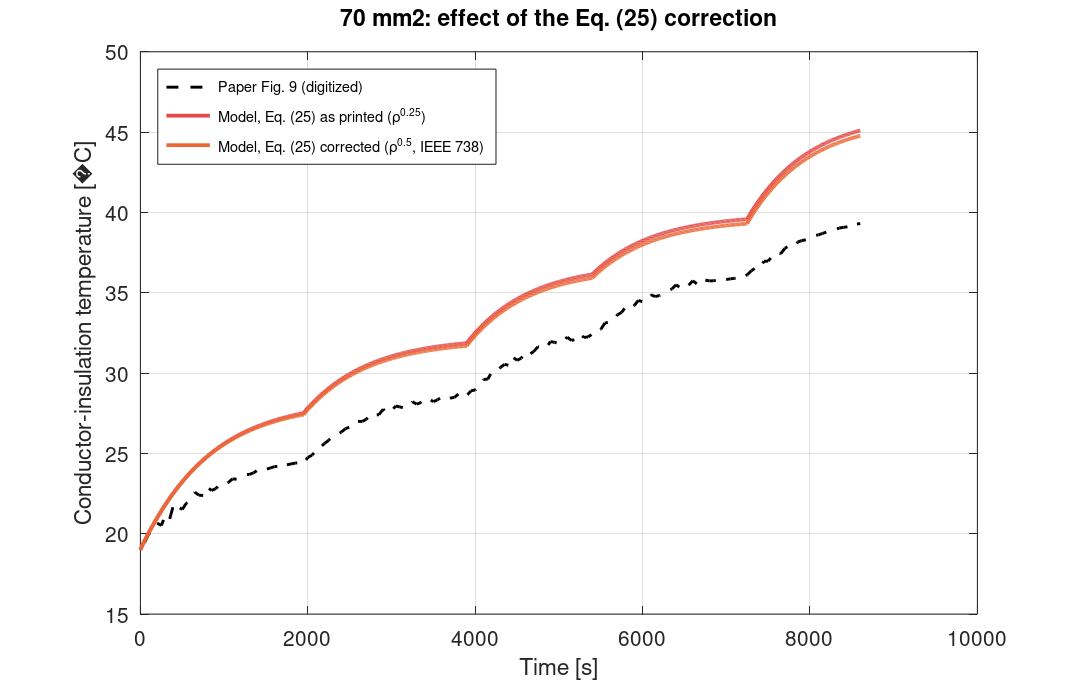
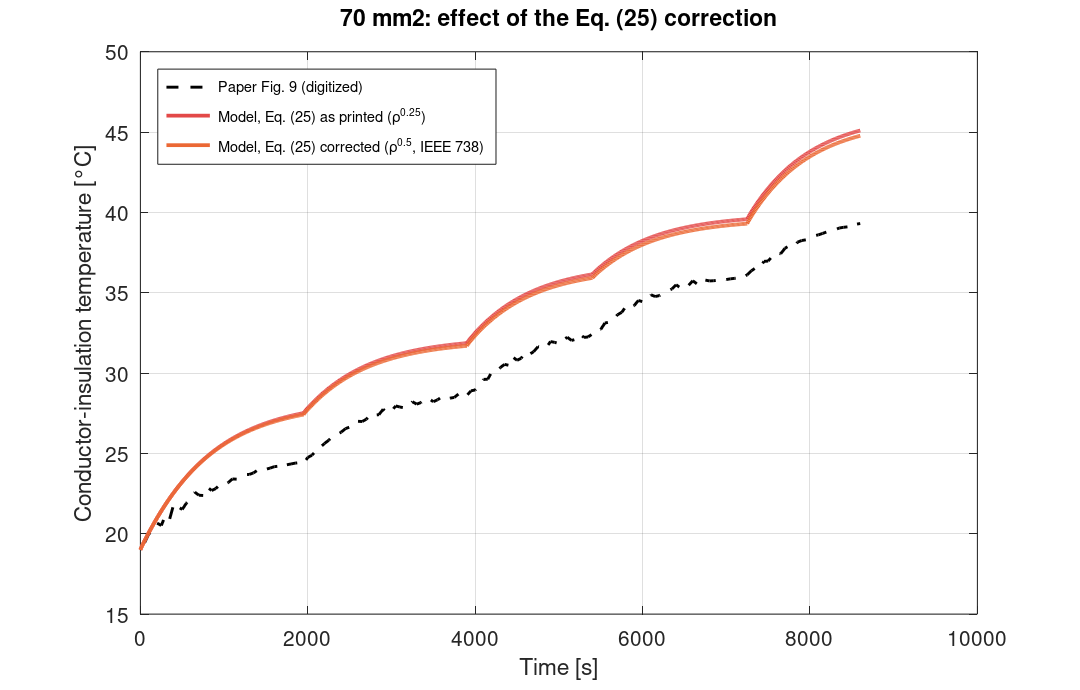
MATLAB: re-render paper-study figures with Octave Qt toolkit
Claude-Session: https://claude.ai/code/session_01NvewmNvfB2gMbfc86z3ryK

Changed region(s): [[0.0611, 0.1826, 0.0917, 0.7609]]

diff --git a/matlab/run_paper_study.m b/matlab/run_paper_study.m
@@ -105,7 +105,7 @@ plot(t, r.p_rad(2:end), '-', 'color', P.blue, 'linewidth', 1.8, 'displayname', '
 hb = D.fig10b_cable70_heat_terms;
 plot(hb.Pc(:, 1), hb.Pc(:, 2), ':', 'color', P.orange, 'linewidth', 1.8, 'displayname', 'P_c (paper Fig. 10b)');
 plot(hb.Pr(:, 1), hb.Pr(:, 2), ':', 'color', P.blue, 'linewidth', 1.8, 'displayname', 'P_r (paper Fig. 10b)');
-xlabel('Time [s]'); ylabel('Per unit length heat terms [W/m]'); ct_legend('northwest');
+xlim([0 r.t(end)]); xlabel('Time [s]'); ylabel('Per unit length heat terms [W/m]'); ct_legend('northwest');
 title('Components of the heat balance, 70 mm2 (cf. paper Fig. 10b)');
 ct_save_fig(f, fullfile(out, 'fig10b_cable70_heat_balance.png'));
 log_lines{end + 1} = sprintf('cable70 heat balance at 8600 s: joule=%.3f pc=%.3f pr=%.3f W/m', r.joule(end), r.p_conv(end), r.p_rad(end));
